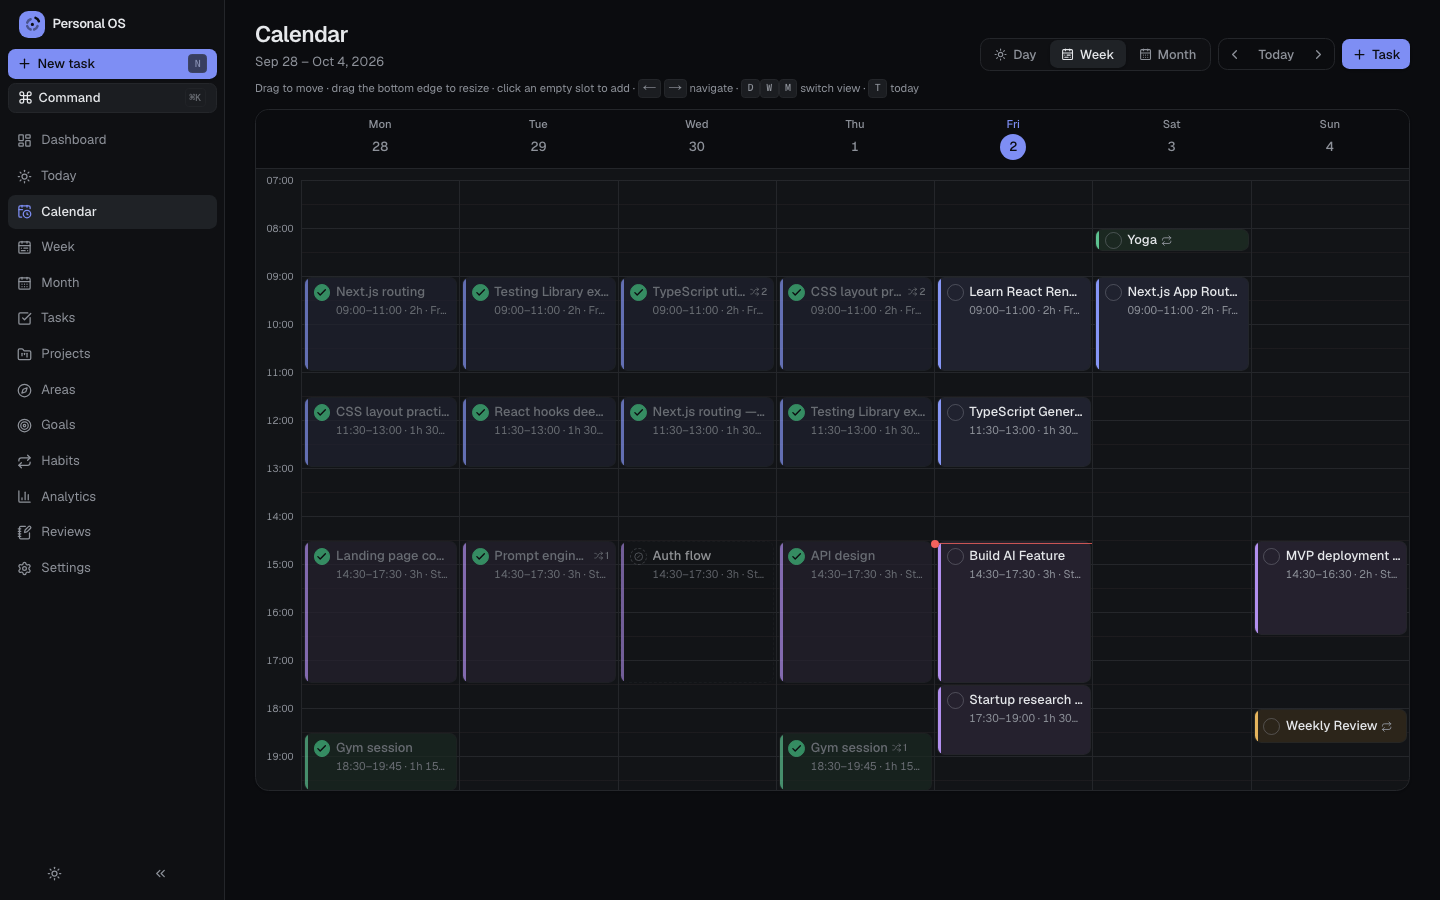
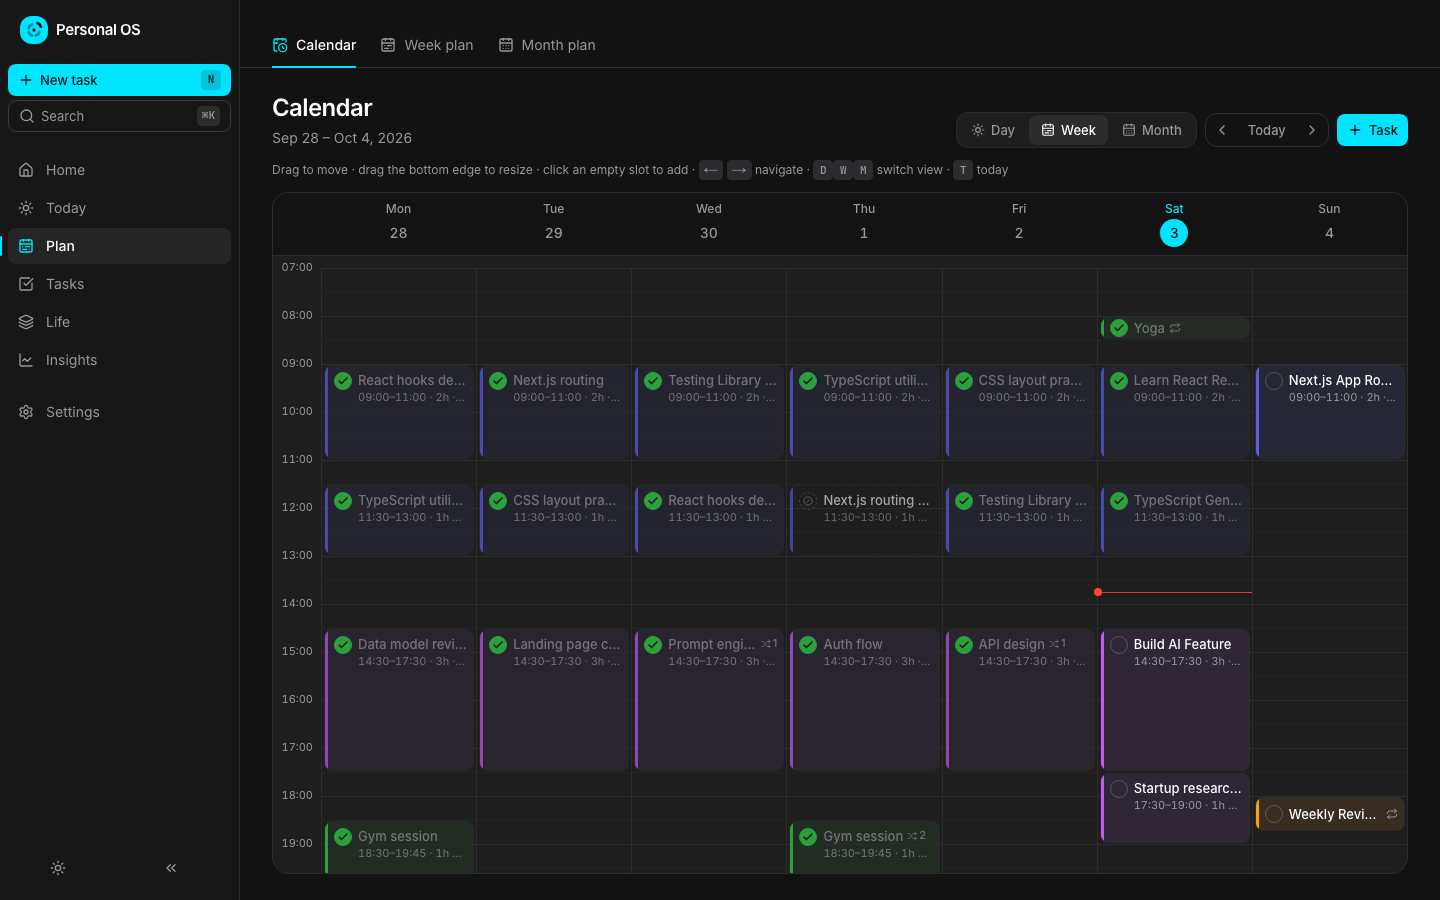
feat:update read me

diff --git a/src/components/ui/dialog.tsx b/src/components/ui/dialog.tsx
@@ -20,7 +20,7 @@ export function DialogContent({
       <DialogPrimitive.Overlay className="fixed inset-0 z-50 bg-black/60 data-[state=open]:animate-fade-in" />
       <DialogPrimitive.Content
         className={cn(
-          "fixed left-1/2 top-[max(1rem,8vh)] z-50 flex max-h-[calc(100dvh-2rem)] w-[calc(100vw-1.5rem)] max-w-lg -translate-x-1/2 flex-col overflow-hidden rounded-xl border border-border bg-popover text-popover-foreground shadow-2xl shadow-black/40 data-[state=open]:animate-scale-in",
+          "fixed left-1/2 top-[max(1rem,8vh)] z-50 flex max-h-[calc(100dvh-max(1rem,8vh)-1rem)] w-[calc(100vw-1.5rem)] max-w-lg -translate-x-1/2 flex-col overflow-hidden rounded-xl border border-border bg-popover text-popover-foreground shadow-2xl shadow-black/40 data-[state=open]:animate-scale-in",
           className,
         )}
         {...props}
@@ -42,7 +42,7 @@ export function DialogHeader({ className, ...props }: React.HTMLAttributes<HTMLD
 }
 
 export function DialogBody({ className, ...props }: React.HTMLAttributes<HTMLDivElement>) {
-  return <div className={cn("overflow-y-auto px-5 pb-4 scrollbar-thin", className)} {...props} />;
+  return <div className={cn("min-h-0 flex-1 overflow-y-auto px-5 pb-4 scrollbar-thin", className)} {...props} />;
 }
 
 export function DialogFooter({ className, ...props }: React.HTMLAttributes<HTMLDivElement>) {

diff --git a/README.md b/README.md
@@ -1,8 +1,6 @@
 <div align="center">
 
-<img src="src/app/icon.svg" alt="Personal OS logo: a day dial of four time blocks around a dot, with one block pulled out of the ring" width="88" />
-
-# Personal OS
+<img src="docs/screenshots/banner.png" alt="Personal OS: plan, do and review your days, weeks and months. Local-first, no account. Shown next to the dashboard with today's progress and schedule." width="100%" />
 
 **A calm, local-first operating system for planning, doing and reviewing your days, weeks and months.**
 
@@ -22,7 +20,7 @@ Plan → Execute → Track → Review → Adjust. Plans are hypotheses: moving a
 
 [Features](#-features) · [Screenshots](#-screenshots) · [Quick start](#-quick-start) · [Shamsi calendar](#-shamsi--persian-calendar) · [Architecture](#-architecture) · [Roadmap](#-roadmap)
 
-<img src="docs/screenshots/demo.gif" alt="A short tour of Personal OS: the dashboard, adding 'Gym Thursday 18:00' with Quick Add, the week calendar, the week board, analytics and the public roadmap" width="100%" />
+<img src="docs/screenshots/demo.gif" alt="A short tour of Personal OS: the home dashboard, adding 'Gym Thursday 18:00' with Quick Add, the Plan space (calendar and week plan), the Life space (goals and habits), Insights analytics and the public roadmap" width="100%" />
 
 </div>
 
@@ -53,14 +51,15 @@ It optimises for **consistency, clarity, flexibility, realistic planning and lon
 | 📈 **Analytics** | Planned vs completed, focused hours, "Where did my time go?", weekly trend, consistency, estimate-vs-actual variance and frequently moved tasks. |
 | 📝 **Reviews & habits** | Daily, weekly and monthly reviews (with the data shown next to your answers, and editable questions) plus a simple habit tracker with streaks. |
 | ⌘ **Command Center** | `⌘/Ctrl + K`: search, navigate, start timers, reschedule, and **Quick Add** in plain language, e.g. `React 2h tomorrow`, `Gym Thursday 18:00`, `Startup 3h Saturday #mvp !high`, `Weekly Review every sunday 18:00`. |
-| 🌙 **Light & dark** | Dark by default, with a one-click light/dark toggle, six accent colours and two density levels. |
-| 🧩 **Customisable** | Dashboard widgets, sidebar items, task defaults, priority names, timeline zoom, review questions, area and habit order, and a tag manager (rename, merge or delete tags). |
+| 🌙 **Light & dark** | Dark by default, with a one-click light/dark toggle, seven accent colours (cyan by default) and two density levels. |
+| 🧭 **Spaces, not page sprawl** | Six spaces in the sidebar (Home, Today, Plan, Tasks, Life, Insights). Related pages live as tabs inside a space (Plan holds Calendar, Week plan and Month plan; Life holds Goals, Projects, Areas and Habits), while every page keeps its own URL and `g` shortcut. |
+| 🧩 **Customisable** | Dashboard widgets, sidebar spaces, task defaults, priority names, timeline zoom, review questions, area and habit order, and a tag manager (rename, merge or delete tags). |
 | 📱 **Responsive** | Sidebar on desktop, collapsible rail on tablet, bottom navigation on phones. |
 | ♿ **Accessible** | Keyboard drag & drop, focus states, screen-reader labels and support for reduced motion. |
 
 ## 📸 Screenshots
 
-<p align="center"><img src="docs/screenshots/dashboard-dark.png" alt="Personal OS dashboard in dark mode: today's progress ring, a drag-and-drop timeline, unscheduled tasks, weekly goals and a focus timer" width="100%" /><br/><sub><b>Dashboard</b>: progress, timeline, unscheduled tasks and weekly goals</sub></p>
+<p align="center"><img src="docs/screenshots/dashboard-dark.png" alt="Personal OS home in dark mode: three KPI tiles for day progress, completed and tracked time, today's drag-and-drop timeline, next up, today's habits and progress by area" width="100%" /><br/><sub><b>Home</b>: today's numbers, timeline, next up and habits</sub></p>
 
 <table>
   <tr>
@@ -68,16 +67,18 @@ It optimises for **consistency, clarity, flexibility, realistic planning and lon
     <td width="50%"><img src="docs/screenshots/calendar-week-dark.png" alt="Calendar week view with draggable blocks" /><br/><sub><b>Calendar</b>: drag, drop and resize</sub></td>
   </tr>
   <tr>
-    <td><img src="docs/screenshots/week-light.png" alt="Week board in light theme with goal progress" /><br/><sub><b>Week</b> (light theme): goals, day columns, templates</sub></td>
-    <td><img src="docs/screenshots/analytics-dark.png" alt="Analytics dashboard with charts" /><br/><sub><b>Analytics</b>: where the time actually went</sub></td>
+    <td><img src="docs/screenshots/week-light.png" alt="Week plan in light theme with goal progress, weekly KPIs and day columns" /><br/><sub><b>Week plan</b> (light theme): goals, day columns, templates</sub></td>
+    <td><img src="docs/screenshots/analytics-dark.png" alt="Analytics with KPI tiles, planned vs completed bars and a focused-hours area chart" /><br/><sub><b>Analytics</b>: where the time actually went</sub></td>
   </tr>
   <tr>
     <td><img src="docs/screenshots/shamsi-month.png" alt="Month calendar in the Shamsi (Solar Hijri) calendar with Persian day names and digits" /><br/><sub><b>Shamsi calendar</b>: Persian names and digits, week starts Saturday</sub></td>
-    <td><img src="docs/screenshots/dashboard-light.png" alt="Dashboard in light theme" /><br/><sub><b>Dashboard</b> (light theme)</sub></td>
+    <td><img src="docs/screenshots/dashboard-light.png" alt="Home in the light theme, on grey surfaces" /><br/><sub><b>Home</b> (light theme)</sub></td>
   </tr>
 </table>
 
 <p align="center"><img src="docs/screenshots/mobile-today.png" alt="Today view on a phone with bottom navigation" width="300" /><br/><sub><b>Mobile</b>: complete, time and reschedule from your phone</sub></p>
+
+The visual system (colours, type, spacing and the rules that keep it from looking templated) is documented in [DESIGN.md](DESIGN.md).
 
 ## 🚀 Quick start
 
